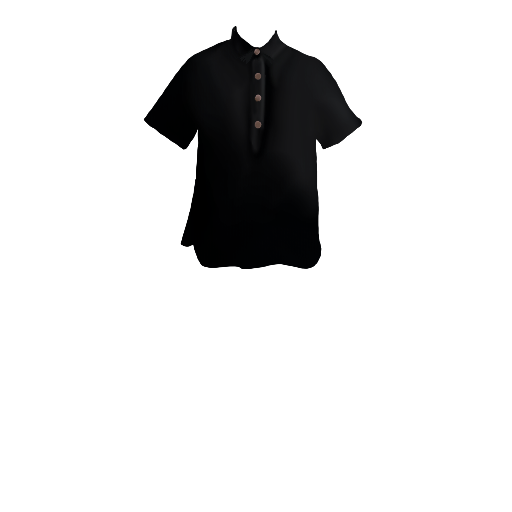
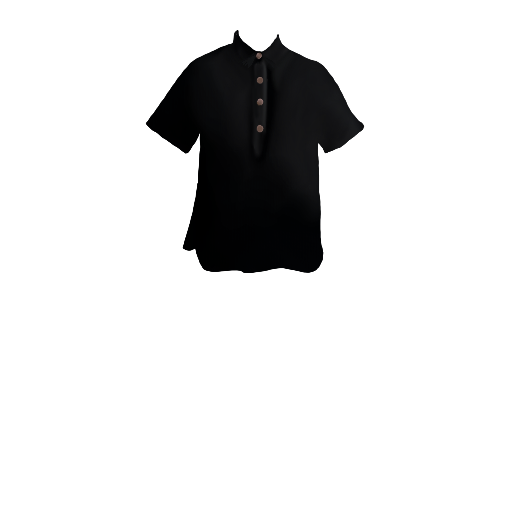
some stuff from japan

diff --git a/wardrobe.js b/wardrobe.js
@@ -48,8 +48,23 @@ const wardrobe = {
         {
             name: "grey braless cami tank",
             path: "assets/tops/grey_braless.png",
-            properties: ["not breathable", "uncollared", "long sleeve", "not layerable"]
-        },                                                                              
+            properties: ["breathable", "uncollared", "sleeveless", "not layerable"]
+        },
+        {
+            name: "rubys brown green sheer shirt, reminds me of astronomy",
+            path: "assets/tops/astronomer_green.png",
+            properties: ["not breathable", "collared", "short sleeve", "layerable"]
+        },  
+        {
+            name: "black sbase",
+            path: "assets/tops/black_sbase.png",
+            properties: ["breathable", "collared", "short sleeve", "layerable"]
+        }, 
+        {
+            name: "butler navy shirt",
+            path: "assets/tops/navy_butler.png",
+            properties: ["breathable", "collared", "long sleeve", "layerable"]
+        },                                                                       
 
     ],
     bottoms: [